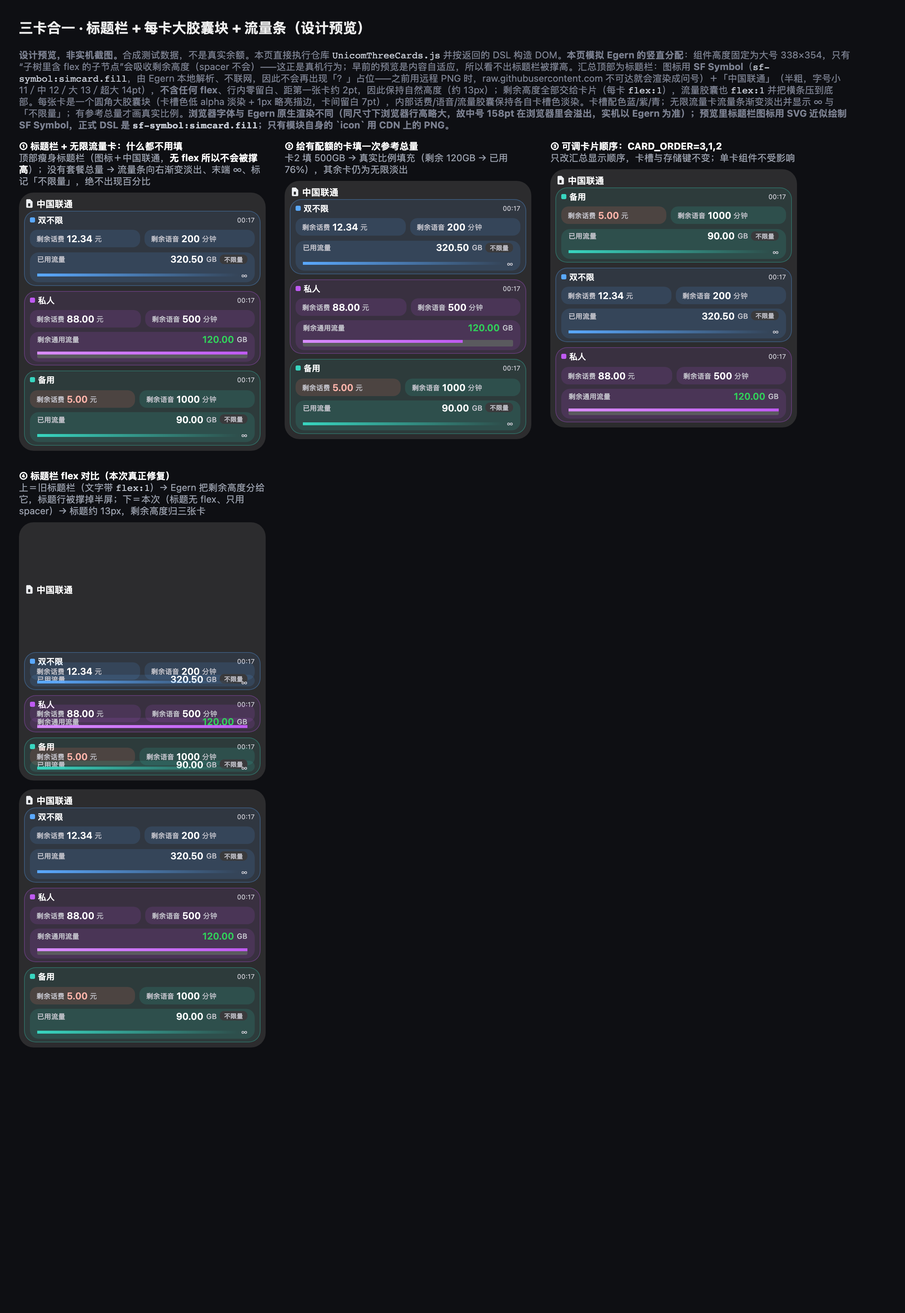
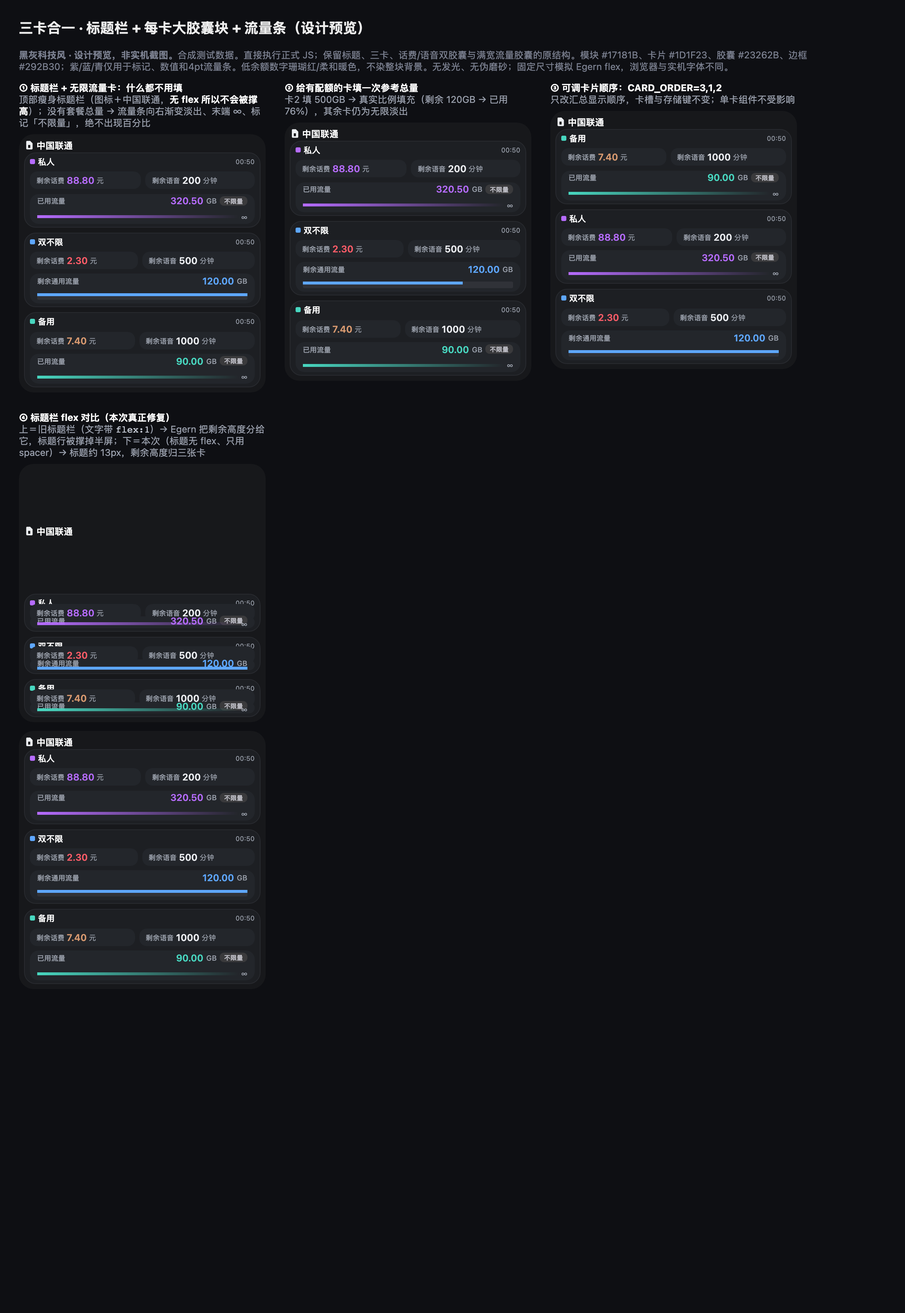
style: neutral dark summary surfaces with restrained slot accents

Changed region(s): [[0.0, 0.0311, 0.9315, 0.4044], [0.0, 0.4356, 0.3105, 0.8089]]

diff --git a/UnicomThreeCards.js b/UnicomThreeCards.js
@@ -127,6 +127,16 @@ const CAPSULE_COLORS=[{light:'#FFF1E5',dark:'#FFB97626'},{light:'#F2EDFF',dark:'
 const SLOT_COLORS=[{light:'#2F7FE0',dark:'#5AA9FF'},{light:'#9B3FD6',dark:'#BF5AF2'},{light:'#12A594',dark:'#38D6C0'}];
 const SLOT_BRIGHT=[{light:'#5AA9FF',dark:'#8CC4FF'},{light:'#BF5AF2',dark:'#D98DFF'},{light:'#38D6C0',dark:'#6FE6D6'}];
 const TINT='21';
+// Summary-only neutral glass palette; single-card styling and account slots stay unchanged.
+const SUMMARY_COLORS=[{light:'#8843C2',dark:'#B66CFF'},{light:'#286CC4',dark:'#5EA7FF'},{light:'#087F70',dark:'#48D7C0'}];
+const SUMMARY_BG={light:'#F3F4F6',dark:'#17181B'};
+const SUMMARY_INK={light:'#202329',dark:'#ECEEF2'};
+const SUMMARY_MUTED={light:'#626975',dark:'#989EA9'};
+const SUMMARY_TRACK={light:'#D9DDE3',dark:'#303238'};
+function summaryFeeColor(d,threshold,slot) {
+ if(!lowBalance(d,threshold)) return SUMMARY_COLORS[slot];
+ return Number(d.value)<threshold/2?{light:'#B83A47',dark:'#FF5C68'}:{light:'#A75E32',dark:'#D99A70'};
+}
 const WARNING={background:{light:'#FDE9E7',dark:'#FF786426'},value:{light:'#B83A32',dark:'#FFB4AA'}};
 const TRACK={light:'#E2E2E7',dark:'#5A5A5E'};
 const CHIP_BG={light:'#ECECF1',dark:'#3A3A3C'};
@@ -169,14 +179,13 @@ function flowRatio(flow,spec) {
  const ratio=used/total;
  return Number.isFinite(ratio)?Math.max(0,Math.min(1,ratio)):null;
 }
-function slotTint(slot) {const c=SLOT_COLORS[slot];return {light:c.light+TINT,dark:c.dark+TINT};}
-function slotFill(slot) {return {type:'linear',colors:[SLOT_BRIGHT[slot],SLOT_COLORS[slot]],startPoint:{x:0,y:0.5},endPoint:{x:1,y:0.5}};}
+function slotTint(slot) {return {light:'#FFFFFF',dark:'#23262B'};}
+function slotFill(slot) {const c=SUMMARY_COLORS[slot];return {type:'linear',colors:[c,c],startPoint:{x:0,y:0.5},endPoint:{x:1,y:0.5}};}
 // Unlimited cards fade to the same colour at 00 alpha so the bar visibly has no end.
-function slotFade(slot) {const c=SLOT_COLORS[slot];return {type:'linear',colors:[c,{light:c.light+'00',dark:c.dark+'00'}],startPoint:{x:0,y:0.5},endPoint:{x:1,y:0.5}};}
-// Big per-card block: a low-alpha slot wash over the widget base (dark ~0x17) plus a brighter 1px
-// outline, so the three cards are visibly separated. Inner capsules keep slotTint.
-function slotCardBg(slot) {const c=SLOT_COLORS[slot];return {light:c.light+'1A',dark:c.dark+'17'};}
-function slotCardBorder(slot) {const c=SLOT_COLORS[slot];return {light:c.light+'59',dark:c.dark+'4D'};}
+function slotFade(slot) {const c=SUMMARY_COLORS[slot];return {type:'linear',colors:[c,{light:c.light+'00',dark:c.dark+'00'}],startPoint:{x:0,y:0.5},endPoint:{x:1,y:0.5}};}
+// Neutral summary surfaces separate cards without broad purple/blue/teal colour washes.
+function slotCardBg(slot) {return {light:'#F8F9FB',dark:'#1D1F23'};}
+function slotCardBorder(slot) {return {light:'#DDE1E7',dark:'#292B30'};}
 // CARD_ORDER only reorders the summary view: a strict 1/2/3 permutation, else the 1,2,3 default.
 function cardOrder(spec) {
  const parts=(typeof spec==='string'||typeof spec==='number')?String(spec).split(',').map(p=>p.trim()):[];
@@ -186,12 +195,12 @@ function cardOrder(spec) {
 }
 // metric.unlimited -> gradient fade + ∞; metric.ratio -> real/relative fill; null -> plain separator.
 function flowBar(slot,metric,s) {
- if(metric.unlimited) return row([{type:'stack',height:BAR_H,flex:1,backgroundGradient:slotFade(slot),children:[]},text('∞',s.tag,COLORS.muted,'medium')],4);
- if(metric.ratio===null) return {type:'stack',direction:'row',height:SEP_H,borderRadius:1,backgroundColor:TRACK,children:[]};
+ if(metric.unlimited) return row([{type:'stack',height:BAR_H,flex:1,backgroundGradient:slotFade(slot),children:[]},text('∞',s.tag,SUMMARY_MUTED,'medium')],4);
+ if(metric.ratio===null) return {type:'stack',direction:'row',height:SEP_H,borderRadius:1,backgroundColor:SUMMARY_TRACK,children:[]};
  const r=Math.round(metric.ratio*1000);
  const fill={type:'stack',height:BAR_H,backgroundGradient:slotFill(slot),flex:r};
  const inner=r>=1000?[fill]:r<=0?[]:[fill,{type:'stack',height:BAR_H,flex:1000-r}];
- return {type:'stack',direction:'row',height:BAR_H,borderRadius:BAR_H/2,backgroundColor:TRACK,children:inner};
+ return {type:'stack',direction:'row',height:BAR_H,borderRadius:BAR_H/2,backgroundColor:SUMMARY_TRACK,children:inner};
 }
 function balanceThreshold(value) {
  if(!['string','number'].includes(typeof value)||!/^\d+(?:\.\d+)?$/.test(String(value).trim())) return 10;
@@ -202,9 +211,9 @@ function capsule(d,index,center=false,warning=false) {
  return {type:'stack',direction:'column',alignItems:'center',...(center?{}:{flex:1}),padding:[7,center?20:8,7,center?20:8],gap:3,backgroundColor:warning?WARNING.background:CAPSULE_COLORS[index],borderRadius:14,children:[text(d.title,10,{light:'#51515A',dark:'#D8D8DF'},'medium'),row([text(d.value,22,warning?WARNING.value:COLORS.value,'semibold'),text(d.unit,10,COLORS.muted)],3)]};
 }
 function chip(label,s) {return {type:'stack',direction:'row',alignItems:'center',padding:[1,6,1,6],borderRadius:6,backgroundColor:CHIP_BG,children:[text(label,s.tag,COLORS.muted,'medium')]};}
-// One resource capsule of the compact summary: slot-coloured ~13% tint, small grey label, big value.
-function miniCapsule(d,slot,s,warning) {
- return {type:'stack',direction:'row',alignItems:'center',flex:1,gap:3,padding:s.cpad,backgroundColor:warning?WARNING.background:slotTint(slot),borderRadius:10,children:[text(d.title,s.label,COLORS.muted,'medium'),text(d.value,s.value,warning?WARNING.value:COLORS.value,'semibold'),text(d.unit,s.unit,COLORS.muted)]};
+// Summary resources use neutral surfaces; hue is confined to status marks and key values.
+function miniCapsule(d,slot,s,valueColor=SUMMARY_INK) {
+ return {type:'stack',direction:'row',alignItems:'center',flex:1,gap:3,padding:s.cpad,backgroundColor:slotTint(slot),borderRadius:10,children:[text(d.title,s.label,SUMMARY_MUTED,'medium'),text(d.value,s.value,valueColor,'semibold'),text(d.unit,s.unit,SUMMARY_MUTED)]};
 }
 function footer(status) {
  return row([spacer(),text(status,9,COLORS.muted)]);
@@ -235,29 +244,27 @@ function compactIdentity(alias,suffix,family,s) {
  if(suffix) parts.push({...text('· 尾号'+suffix,s.name-2,COLORS.value,'medium'),minScale:1});
  return parts;
 }
-// One summary card is wrapped in a single rounded block: a low-alpha slot wash with a brighter 1px
-// outline, so the three cards read as separate blocks. Inside: (1) slot square + alias + suffix +
-// HH:mm, (2) fee/voice capsules, (3) full-width flow capsule (API label + value/unit [+ 不限量]
-// over the flow bar). The inner rows keep their own slot tint.
+// Summary geometry is unchanged: identity/time, two resource capsules, full-width flow capsule.
+// Only surfaces, text accents and warning colours differ from the previous tinted design.
 function compactCard(ctx,result,selection,family,metric) {
  const lock=family.startsWith('accessory'),small=family==='systemSmall';
  const s=FLOW_SIZES[family]||FLOW_SIZES.systemMedium;
  const slot=selection-1;
  const alias=cardName(ctx.env?.['CARD'+selection+'_NAME'],selection);
- const dot={type:'stack',width:s.icon,height:s.icon,borderRadius:2,backgroundColor:SLOT_COLORS[slot],children:[]};
+ const dot={type:'stack',width:s.icon,height:s.icon,borderRadius:2,backgroundColor:SUMMARY_COLORS[slot],children:[]};
  const time=result.updatedAt?new Date(result.updatedAt).toLocaleTimeString('zh-CN',{hour:'2-digit',minute:'2-digit',timeZone:'Asia/Shanghai'}):'--:--';
- const idRow=row([dot,...compactIdentity(alias,lock?'':result.suffix,family,s),spacer(),{...text(time,s.time,COLORS.muted),minScale:1}],4);
+ const idRow=row([dot,...compactIdentity(alias,lock?'':result.suffix,family,s),spacer(),{...text(time,s.time,SUMMARY_MUTED),minScale:1}],4);
  const block=children=>({type:'stack',direction:'column',gap:s.gap,padding:CARD_PAD,flex:1,backgroundColor:slotCardBg(slot),borderRadius:CARD_RADIUS,borderWidth:1,borderColor:slotCardBorder(slot),children});
  if(!result.data) return lock?{type:'stack',direction:'column',gap:2,children:[idRow,text(result.status,9,COLORS.accent)]}:block([idRow,text(result.status,small?9:11,COLORS.accent)]);
  const [fee,voice,flow]=result.data;
- if(lock) return {type:'stack',direction:'column',gap:1,children:[row([dot,...compactIdentity(alias,'',family,s),text(flow.value,s.value,COLORS.value,'semibold'),text(flow.unit,s.unit,COLORS.muted)],3)]};
- const warning=lowBalance(fee,balanceThreshold(ctx.env?.LOW_BALANCE_THRESHOLD));
- const valueColor=flowSemantic(flow.title)==='remaining'?REMAIN:COLORS.value;
- const topRow=row([{...text(flow.title,s.title,COLORS.muted,'medium'),flex:1},text(flow.value,s.value,valueColor,'semibold'),text(flow.unit,s.unit,COLORS.muted,'medium'),...(metric.unlimited?[chip('不限量',s)]:[])],4);
+ if(lock) return {type:'stack',direction:'column',gap:1,children:[row([dot,...compactIdentity(alias,'',family,s),text(flow.value,s.value,COLORS.value,'semibold'),text(flow.unit,s.unit,SUMMARY_MUTED)],3)]};
+ const feeColor=summaryFeeColor(fee,balanceThreshold(ctx.env?.LOW_BALANCE_THRESHOLD),slot);
+ const valueColor=SUMMARY_COLORS[slot];
+ const topRow=row([{...text(flow.title,s.title,SUMMARY_MUTED,'medium'),flex:1},text(flow.value,s.value,valueColor,'semibold'),text(flow.unit,s.unit,SUMMARY_MUTED,'medium'),...(metric.unlimited?[chip('不限量',s)]:[])],4);
  // The flow capsule is flexible and holds a spacer above its bar, so when the card is given extra
  // height the bar sinks to the bottom instead of leaving a dead tinted gap under the label.
  const flowCapsule={type:'stack',direction:'column',gap:s.fgap,padding:s.fpad,flex:1,backgroundColor:slotTint(slot),borderRadius:12,children:[topRow,spacer(),flowBar(slot,metric,s)]};
- const mid=small?[]:[row([miniCapsule(fee,slot,s,warning),miniCapsule(voice,slot,s,false)],6)];
+ const mid=small?[]:[row([miniCapsule(fee,slot,s,feeColor),miniCapsule(voice,slot,s)],6)];
  return block([idRow,...mid,flowCapsule]);
 }
 // Decide each card's bar: unlimited (no total + "已用" label) fades out; a configured total gives a
@@ -314,7 +321,7 @@ async function compactWidget(ctx) {
  // is the one flexible child, so the freed space goes to the three cards (each flex:1) instead of
  // puffing up the heading.
  const children=titleBar.length?[titleBar[0],{type:'stack',direction:'column',gap:CARD_GAP,flex:1,children:cardList}]:cardList;
- return {...widget(children,enabled(ctx.env?.TRANSLUCENT)),padding:lock?4:small?6:family==='systemMedium'?6:family==='systemLarge'?7:8,gap:lock?2:titleBar.length?TITLE_GAP:CARD_GAP};
+ return {...widget(children,enabled(ctx.env?.TRANSLUCENT)),backgroundColor:enabled(ctx.env?.TRANSLUCENT)?{light:'#F3F4F6B3',dark:'#17181BB3'}:SUMMARY_BG,padding:lock?4:small?6:family==='systemMedium'?6:family==='systemLarge'?7:8,gap:lock?2:titleBar.length?TITLE_GAP:CARD_GAP};
 }
 export default async function(ctx) {
  if(ctx.request) {capture(ctx);return;}

diff --git a/preview/compact-preview.html b/preview/compact-preview.html
@@ -1,7 +1,7 @@
 <!doctype html><meta charset="utf-8"><title>三卡汇总 设计预览</title>
 <style>body{font:13px system-ui;background:#0e0f13;color:#eee;padding:26px;margin:0}.wrap{display:flex;gap:26px;flex-wrap:wrap}.box{width:338px}.cap{color:#9aa0ad;margin:0 0 8px}.cap b{color:#fff}.cap code{color:#c7ccd6}.holder{border-radius:20px;overflow:hidden}.note{color:#7b8090;margin-top:18px;max-width:1140px}code{color:#c7ccd6}</style>
 <h2 style="margin:0 0 6px">三卡合一 · 标题栏 + 每卡大胶囊块 + 流量条（设计预览）</h2>
-<p class="note"><b>设计预览，非实机截图。</b>合成测试数据，不是真实余额。本页直接执行仓库 <code>UnicomThreeCards.js</code> 并按返回的 DSL 构造 DOM。<b>本页模拟 Egern 的竖直分配</b>：组件高度固定为大号 338×354，只有“子树里含 flex 的子节点”会吸收剩余高度（spacer 不会）——这正是真机行为；早前的预览是内容自适应，所以看不出标题栏被撑高。汇总顶部为标题栏：图标用 <b>SF Symbol</b>（<code>sf-symbol:simcard.fill</code>，由 Egern 本地解析、不联网，因此不会再出现「？」占位——之前用远程 PNG 时，raw.githubusercontent.com 不可达就会渲染成问号）＋「中国联通」（半粗，字号小 11／中 12／大 13／超大 14pt），<b>不含任何 flex</b>、行内零留白、距第一张卡约 2pt，因此保持自然高度（约 13px）；剩余高度全部交给卡片（每卡 <code>flex:1</code>），流量胶囊也 <code>flex:1</code> 并把横条压到底部。每张卡是一个圆角大胶囊块（卡槽色低 alpha 淡染 + 1px 略亮描边，卡间留白 7pt），内部话费/语音/流量胶囊保持各自卡槽色淡染。卡槽配色蓝/紫/青；无限流量卡流量条渐变淡出并显示 ∞ 与「不限量」；有参考总量才画真实比例。<b>浏览器字体与 Egern 原生渲染不同（同尺寸下浏览器行高略大，故中号 158pt 在浏览器里会溢出，实机以 Egern 为准）；预览里标题栏图标用 SVG 近似绘制 SF Symbol，正式 DSL 是 <code>sf-symbol:simcard.fill</code>；只有模块自身的 `icon` 用 CDN 上的 PNG。</b></p>
+<p class="note"><b>黑灰科技风 · 设计预览，非实机截图。</b>合成测试数据。直接执行正式 JS；保留标题、三卡、话费/语音双胶囊与满宽流量胶囊的原结构。模块 #17181B、卡片 #1D1F23、胶囊 #23262B、边框 #292B30；紫/蓝/青仅用于标记、数值和4pt流量条。低余额数字珊瑚红/柔和暖色，不染整块背景。无发光、无伪磨砂；固定尺寸模拟 Egern flex，浏览器与实机字体不同。</p>
 <div class="wrap">
  <div class="box"><p class="cap"><b>① 标题栏 + 无限流量卡：什么都不用填</b><br>顶部瘦身标题栏（图标＋中国联通，<b>无 flex 所以不会被撑高</b>）；没有套餐总量 → 流量条向右渐变淡出、末端 ∞、标记「不限量」，绝不出现百分比</p><div class="holder" id="a"></div></div>
  <div class="box"><p class="cap"><b>② 给有配额的卡填一次参考总量</b><br>卡2 填 500GB → 真实比例填充（剩余 120GB → 已用 76%），其余卡仍为无限淡出</p><div class="holder" id="b"></div></div>
@@ -44,14 +44,14 @@ function render(n,vertical){
  e.style.minWidth='0';
  return e;
 }
-const rows=[['双不限','剩余话费','12.34','元','剩余语音','200','分钟','已用流量','320.50','GB'],['私人','剩余话费','88.00','元','剩余语音','500','分钟','剩余通用流量','120.00','GB'],['备用','剩余话费','5.00','元','剩余语音','1000','分钟','已用流量','90.00','GB']];
+const rows=[['私人','剩余话费','88.80','元','剩余语音','200','分钟','已用流量','320.50','GB'],['双不限','剩余话费','2.30','元','剩余语音','500','分钟','剩余通用流量','120.00','GB'],['备用','剩余话费','7.40','元','剩余语音','1000','分钟','已用流量','90.00','GB']];
 function fixture(){const m=new Map();rows.forEach((r,i)=>{m.set('egern.unicom3.v1.slot.'+(i+1),{phone:'1300000000'+(i+1),cookie:'synthetic',capturedAt:1,updatedAt:Date.now()-600000,dataSchema:2,data:[{title:r[1],value:r[2],unit:r[3]},{title:r[4],value:r[5],unit:r[6]},{title:r[7],value:r[8],unit:r[9]}]});});return m;}
 function frame(root,family){const f=FRAME[family]||FRAME.systemLarge;root.style.width=f[0]+'px';root.style.height=f[1]+'px';root.style.overflow='hidden';return root;}
 async function draw(id,env,family='systemLarge',mangle){const m=fixture();const t=await run({env:{VIEW:'all',...env},widgetFamily:family,storage:{getJSON:k=>m.get(k),setJSON:(k,v)=>m.set(k,v)},http:{get:()=>{throw Error('fixture cache only')}}});if(mangle)mangle(t);document.getElementById(id).replaceChildren(frame(render(t),family));}
-await draw('a',{CARD1_NAME:'双不限',CARD2_NAME:'私人',CARD3_NAME:'备用'});
-await draw('b',{CARD1_NAME:'双不限',CARD2_NAME:'私人',CARD3_NAME:'备用',CARD2_TOTAL:'500GB'});
-await draw('c',{CARD1_NAME:'双不限',CARD2_NAME:'私人',CARD3_NAME:'备用',CARD_ORDER:'3,1,2'});
+await draw('a',{CARD1_NAME:'私人',CARD2_NAME:'双不限',CARD3_NAME:'备用'});
+await draw('b',{CARD1_NAME:'私人',CARD2_NAME:'双不限',CARD3_NAME:'备用',CARD2_TOTAL:'500GB'});
+await draw('c',{CARD1_NAME:'私人',CARD2_NAME:'双不限',CARD3_NAME:'备用',CARD_ORDER:'3,1,2'});
 // Re-create the OLD bug: put flex back on the title text so the heading takes the leftover height.
-await draw('before',{CARD1_NAME:'双不限',CARD2_NAME:'私人',CARD3_NAME:'备用'},'systemLarge',t=>{const bar=t.children[0];bar.children[1]={...bar.children[1],flex:1};bar.children.pop();});
-await draw('after',{CARD1_NAME:'双不限',CARD2_NAME:'私人',CARD3_NAME:'备用'});
+await draw('before',{CARD1_NAME:'私人',CARD2_NAME:'双不限',CARD3_NAME:'备用'},'systemLarge',t=>{const bar=t.children[0];bar.children[1]={...bar.children[1],flex:1};bar.children.pop();});
+await draw('after',{CARD1_NAME:'私人',CARD2_NAME:'双不限',CARD3_NAME:'备用'});
 </script>

diff --git a/preview/compact.html b/preview/compact.html
@@ -1,6 +1,6 @@
 <!doctype html><meta charset="utf-8"><title>三卡汇总 胶囊块 DSL 设计预览</title>
 <style>body{font:14px system-ui;background:#e7e9ee;padding:24px}#preview{margin-top:20px;box-shadow:0 8px 24px #0002;border-radius:20px;overflow:hidden;box-sizing:border-box}label{margin-right:12px}pre{max-height:220px;overflow:auto}p{max-width:900px}</style>
-<h2>三卡合一 · 标题栏 + 每卡大胶囊块 + 流量条 DSL 设计预览</h2><p><b>设计预览，非实机截图。</b>合成测试数据，不是真实余额。本页直接执行仓库 <code>UnicomThreeCards.js</code> 并按返回的 DSL 构造 DOM；按各档真实尺寸固定高度渲染，并<b>模拟 Egern 的竖直 flex 分配</b>（子树里含 flex 的子节点会吸收剩余高度，spacer 不会），所以能复现真机占高问题。浏览器字体/压缩与 Egern 原生渲染不同。汇总顶部新增一行标题栏：图标用 <b>SF Symbol</b>（<code>sf-symbol:simcard.fill</code>，由 Egern 本地解析、不联网，不会再出现问号占位）＋「中国联通」（半粗，字号小 11／中 12／大 13／超大 14pt），<b>不含任何 flex</b>（标题行一旦含 flex，Egern 就会把剩余高度分给它、把它撑到半屏——这正是真机占高变大的根因）、行内零留白、距第一张卡约 2pt，因此保持自然高度（约 15px），剩余高度交给卡片（每卡 <code>flex:1</code>），可被自定义标题覆盖，<code>SHOW_BRAND=false/off/0</code> 时整行隐藏。每张卡仍是一个圆角大胶囊块（卡槽色低 alpha 淡染 + 1px 略亮描边，卡间留白 7pt），内部话费/语音/流量胶囊保持各自卡槽色淡染；卡片行前的卡槽色小方块保持不变，用来区分三卡。卡槽配色蓝/紫/青；无限流量卡流量条渐变淡出并显示 ∞ 与「不限量」；有参考总量才画真实比例；「卡片顺序」可调整三卡显示次序。<b>预览里标题栏图标用 SVG 近似绘制 SF Symbol，正式 DSL 是 <code>sf-symbol:simcard.fill</code>；只有模块自身的 <code>icon</code> 用 CDN 上的 PNG。</b></p>
+<h2>三卡合一 · 标题栏 + 每卡大胶囊块 + 流量条 DSL 设计预览</h2><p class="note"><b>黑灰科技风 · 设计预览，非实机截图。</b>合成测试数据。直接执行正式 JS；保留标题、三卡、话费/语音双胶囊与满宽流量胶囊的原结构。模块 #17181B、卡片 #1D1F23、胶囊 #23262B、边框 #292B30；紫/蓝/青仅用于标记、数值和4pt流量条。低余额数字珊瑚红/柔和暖色，不染整块背景。无发光、无伪磨砂；固定尺寸模拟 Egern flex，浏览器与实机字体不同。</p>
 <label>尺寸 <select id="family"><option>systemMedium</option><option>systemSmall</option><option>systemLarge</option><option>systemExtraLarge</option><option>accessoryRectangular</option><option>accessoryCircular</option><option>accessoryInline</option></select></label>
 <label><input id="dark" type="checkbox">深色</label><label><input id="titlebar" type="checkbox" checked>顶部标题栏</label><label><input id="suffix" type="checkbox">尾四位</label><label><input id="fail" type="checkbox">卡2失效</label><label>卡1别名 <input id="alias" value="双不限"></label><label>卡2参考总量 <input id="total" placeholder="可选，如 500GB"></label><label>卡片顺序 <input id="order" placeholder="1,2,3"></label>
 <div id="preview"></div><details><summary>实际 JS 返回的 DSL</summary><pre id="tree"></pre></details>

diff --git a/tests/compact.test.js b/tests/compact.test.js
@@ -49,7 +49,7 @@ test('all settings retain exact titles, alias and cache timestamp without rerequ
  const m=mock();for(const p of phones) await capture(m,p);
  await run({...m.ctx,env:{VIEW:'all'}});const records=[1,2,3].map(i=>m.ctx.storage.getJSON('egern.unicom3.v1.slot.'+i));
  const t=await run({...m.ctx,env:{VIEW:'all',TRANSLUCENT:'true',WIDGET_TITLE:'我的三卡',SHOW_BRAND:'true',CARD1_NAME:'双不限',SHOW_PHONE_SUFFIX:'true',LOW_BALANCE_THRESHOLD:'0'}});
- assert.equal(m.calls.length,3);assert.equal(t.backgroundColor.light,'#FFFFFFB3');assert.ok(texts(t).includes('我的三卡'));assert.ok(texts(t).includes('· 尾号0001'));
+ assert.equal(m.calls.length,3);assert.equal(t.backgroundColor.light,'#F3F4F6B3');assert.ok(texts(t).includes('我的三卡'));assert.ok(texts(t).includes('· 尾号0001'));
  assert.deepEqual([1,2,3].map(i=>m.ctx.storage.getJSON('egern.unicom3.v1.slot.'+i)),records);
 });
 test('medium summary is a three-row capsule card inside one rounded slot-tinted block',async()=>{
@@ -63,9 +63,9 @@ test('medium summary is a three-row capsule card inside one rounded slot-tinted 
   assert.equal(card.type,'stack');assert.equal(card.gap,2);assert.equal(card.flex,1); // cards share the height
   // The whole card is one rounded block: slot wash over the base + a brighter 1px outline.
   assert.equal(card.borderRadius,16);assert.equal(card.borderWidth,1);assert.deepEqual(card.padding,[4,7,4,7]);
-  assert.equal(card.backgroundColor.light,['#2F7FE01A','#9B3FD61A','#12A5941A'][i]);
-  assert.equal(card.backgroundColor.dark,['#5AA9FF17','#BF5AF217','#38D6C017'][i]);
-  assert.equal(card.borderColor.light,['#2F7FE059','#9B3FD659','#12A59459'][i]);
+  assert.equal(card.backgroundColor.light,'#F8F9FB');
+  assert.equal(card.backgroundColor.dark,'#1D1F23');
+  assert.equal(card.borderColor.light,'#DDE1E7');
   const [idRow,mid,flowCap]=card.children;
   assert.equal(idRow.type,'stack');assert.equal(mid.type,'stack');assert.equal(flowCap.type,'stack');
   // row1: slot square + identity + right-aligned HH:mm, no big value on this line
@@ -73,12 +73,12 @@ test('medium summary is a three-row capsule card inside one rounded slot-tinted 
   assert.equal(idRow.children.at(-1).type,'text');assert.match(idRow.children.at(-1).text,/^(\d{2}:\d{2}|--:--)$/);
   // row2: two equal capsules side by side, each keeping its own slot tint
   assert.equal(mid.children.length,2);assert.ok(mid.children.every(c=>c.flex===1));
-  assert.equal(mid.children[0].backgroundColor.light,['#2F7FE021','#9B3FD621','#12A59421'][i]);
+  assert.equal(mid.children[0].backgroundColor.light,'#FFFFFF');
   // row3: one full-width flow capsule (label + value over the bar), tinted with this card's slot.
   // It is flexible and holds a spacer above the bar so extra height sinks the bar to the bottom.
   assert.equal(flowCap.children.length,3);
   assert.equal(flowCap.children[1].type,'spacer');
-  assert.equal(flowCap.backgroundColor.light,['#2F7FE021','#9B3FD621','#12A59421'][i]);
+  assert.equal(flowCap.backgroundColor.light,'#FFFFFF');
   assert.equal(flowCap.children[2].children[0].backgroundGradient.type,'linear');
  });
  assert.ok(!texts(t).join('|').includes('%'));

diff --git a/tests/airport.test.js b/tests/airport.test.js
@@ -27,8 +27,8 @@ test('summary slot palette is blue/purple/cyan and no colour is yellow or orange
  const m=await setup(used);
  const t=await run({...m.ctx,env:{VIEW:'all'}});
  const dots=cards(t).map(c=>c.children[0].children[0].backgroundColor);
- assert.deepEqual(dots.map(c=>c.dark),['#5AA9FF','#BF5AF2','#38D6C0']);
- assert.deepEqual(dots.map(c=>c.light),['#2F7FE0','#9B3FD6','#12A594']);
+ assert.deepEqual(dots.map(c=>c.dark),['#B66CFF','#5EA7FF','#48D7C0']);
+ assert.deepEqual(dots.map(c=>c.light),['#8843C2','#286CC4','#087F70']);
  assert.equal(new Set(dots.map(c=>c.dark)).size,3);
  for(const hex of colorStrings(t)){const {h,d}=hsv(hex);if(d>0.12)assert.ok(!(h>=18&&h<=72),'yellow/orange colour '+hex);}
 });
@@ -113,15 +113,17 @@ test('an invalid or missing total never fakes a ratio or a 0% style',async()=>{
   assert.ok(bar.children[0].flex>0);
  }
 });
-test('remaining values render green and used values do not',async()=>{
+test('flow values use their slot accent without changing remaining/used labels',async()=>{
  const m=await setup(remaining);
  const t=await run({...m.ctx,env:{VIEW:'all'}});
  const big=nodes(t).find(n=>n.type==='text'&&n.text==='158.17');
- assert.equal(big.textColor.dark,'#31D05A');
+ assert.equal(big.textColor.dark,'#B66CFF');
+ assert.ok(texts(t).includes('剩余通用流量'));
  const m2=await setup(used);
  const t2=await run({...m2.ctx,env:{VIEW:'all'}});
  const big2=nodes(t2).find(n=>n.type==='text'&&n.text==='407.44');
- assert.notEqual(big2.textColor.dark,'#31D05A');
+ assert.equal(big2.textColor.dark,'#B66CFF');
+ assert.ok(texts(t2).includes('已用通用流量'));
 });
 test('each card shows its flow value exactly once',async()=>{
  const m=await setup(used);
@@ -143,11 +145,11 @@ test('low fee is still emphasised in the summary capsules and normal fee is not'
  const m=mock();for(const p of phones)await capture(m,p);
  m.ctx.http.get=async u=>{m.calls.push({u,o:{}});return {status:200,json:async()=>({code:'Y',feeResource:{feePersent:'2.10',newUnit:'元'},voiceResource:{voicePersent:'56',newUnit:'分钟'},flowResource:used})};};
  const t=await run({...m.ctx,env:{VIEW:'all'}});
- assert.equal(nodes(t).find(n=>n.type==='text'&&n.text==='2.10').textColor.light,'#B83A32');
+ assert.equal(nodes(t).find(n=>n.type==='text'&&n.text==='2.10').textColor.light,'#B83A47');
  const m2=mock();for(const p of phones)await capture(m2,p);
  m2.ctx.http.get=async u=>{m2.calls.push({u,o:{}});return {status:200,json:async()=>({code:'Y',feeResource:{feePersent:'89.30',newUnit:'元'},voiceResource:{voicePersent:'56',newUnit:'分钟'},flowResource:used})};};
  const t2=await run({...m2.ctx,env:{VIEW:'all'}});
- assert.equal(nodes(t2).find(n=>n.type==='text'&&n.text==='89.30').textColor.light,'#1C1C1E');
+ assert.equal(nodes(t2).find(n=>n.type==='text'&&n.text==='89.30').textColor.light,'#8843C2');
 });
 test('summary layout stays within documented DSL and leaks nothing on every home size',async()=>{
  for(const family of ['systemSmall','systemMedium','systemLarge','systemExtraLarge']){

diff --git a/tests/cardblock.test.js b/tests/cardblock.test.js
@@ -6,7 +6,7 @@ import {mock,capture,phones,cards,cardHolder} from './helpers.js';
 const nodes=n=>[n,...(n.children||[]).flatMap(nodes)];
 const texts=n=>[...(n.type==='text'?[n.text]:[]),...(n.children||[]).flatMap(texts)];
 // Slot-tinted card wash (dark) identifies each card after CARD_ORDER rearranges the rows.
-const cardDark=['#5AA9FF17','#BF5AF217','#38D6C017'];
+const cardDark=['#1D1F23','#1D1F23','#1D1F23'];
 
 test('every home summary card is one rounded slot-tinted block with a brighter 1px outline and card gap',async()=>{
  for(const family of ['systemSmall','systemMedium','systemLarge','systemExtraLarge']){
@@ -20,11 +20,11 @@ test('every home summary card is one rounded slot-tinted block with a brighter 1
    assert.equal(card.borderRadius,16,family);
    assert.equal(card.borderWidth,1,family);
    assert.equal(card.backgroundColor.dark,cardDark[i],family);
-   assert.equal(card.backgroundColor.light,['#2F7FE01A','#9B3FD61A','#12A5941A'][i],family);
-   assert.equal(card.borderColor.dark,['#5AA9FF4D','#BF5AF24D','#38D6C04D'][i],family);
+   assert.equal(card.backgroundColor.light,'#F8F9FB',family);
+   assert.equal(card.borderColor.dark,'#292B30',family);
    // the dark wash must stay the specified subtle 0x14..0x1F range, not a solid fill
-   const alpha=parseInt(card.backgroundColor.dark.slice(7),16);
-   assert.ok(alpha>=0x14&&alpha<=0x1f,family+' alpha '+alpha);
+   assert.equal(card.children[0].children[0].backgroundColor.dark,['#B66CFF','#5EA7FF','#48D7C0'][i]);
+   assert.equal(card.backgroundColor.dark.length,7,'neutral opaque card, no slot wash');
    assert.ok(Array.isArray(card.padding),family);
   });
  }
@@ -84,5 +84,5 @@ test('unlimited cards stay ∞ + 不限量 with no percentage and a low fee is s
  assert.equal(texts(t).filter(x=>x==='不限量').length,3);
  assert.equal(texts(t).filter(x=>x==='∞').length,3);
  assert.ok(!texts(t).join('|').includes('%'));
- assert.equal(nodes(t).find(n=>n.type==='text'&&n.text==='2.10').textColor.light,'#B83A32');
+ assert.equal(nodes(t).find(n=>n.type==='text'&&n.text==='2.10').textColor.light,'#B83A47');
 });

diff --git a/tests/dark-neutral.test.js b/tests/dark-neutral.test.js
@@ -1,0 +1,23 @@
+import test from 'node:test';
+import assert from 'node:assert/strict';
+import run from '../UnicomThreeCards.js';
+import {mock,capture,phones,cards} from './helpers.js';
+const nodes=n=>[n,...(n.children||[]).flatMap(nodes)];
+test('neutral summary surfaces, severity-only fee colors and 4pt theme bars preserve data and cache',async()=>{
+ const m=mock();for(const p of phones)await capture(m,p);
+ const fee=['89.30','2.10','7.20'],flow=['158.12','417.75','146.77'];
+ m.ctx.http.get=async u=>{const i=phones.findIndex(p=>u.includes(p));return {status:200,json:async()=>({code:'Y',feeResource:{feePersent:fee[i],newUnit:'元',dynamicFeeTitle:'剩余话费'},voiceResource:{voicePersent:String(789+i),newUnit:'分钟'},flowResource:{flowPersent:flow[i],newUnit:'GB',dynamicFlowTitle:i?'已用通用流量':'剩余通用流量'}})};};
+ const t=await run({...m.ctx,widgetFamily:'systemLarge',env:{VIEW:'all'}});
+ assert.equal(t.backgroundColor.dark,'#17181B');
+ cards(t).forEach((c,i)=>{
+  assert.equal(c.backgroundColor.dark,'#1D1F23');assert.equal(c.borderColor.dark,'#292B30');
+  assert.equal(c.children.length,3);assert.equal(c.children[1].children.length,2);
+  assert.equal(c.children[1].children[0].backgroundColor.dark,'#23262B');
+  const all=nodes(c);assert.equal(all.find(n=>n.text===fee[i]).textColor.dark,['#B66CFF','#FF5C68','#D99A70'][i]);
+  assert.equal(all.filter(n=>n.text===flow[i]).length,1);
+  const bar=c.children[2].children[2];assert.equal(i?bar.children[0].height:bar.height,4);
+ });
+ const saved=structuredClone([1,2,3].map(i=>m.ctx.storage.getJSON('egern.unicom3.v1.slot.'+i)));
+ await run({...m.ctx,widgetFamily:'systemLarge',env:{VIEW:'all',CARD_ORDER:'3,1,2'}});
+ assert.deepEqual([1,2,3].map(i=>m.ctx.storage.getJSON('egern.unicom3.v1.slot.'+i)),saved,'a UI change cannot rewrite cache or credentials');
+});

diff --git a/INSTALL.md b/INSTALL.md
@@ -23,11 +23,13 @@ https://raw.githubusercontent.com/liuweiqiang0523/egern-unicom-threecards/main/U
 
 **顶部标题栏（本次已修复占高根因）**：汇总组件顶部默认显示一行**紧凑**标题栏——左侧为 SF Symbol 图标（`sf-symbol:simcard.fill`，本地解析、不联网，尺寸比文字大一档），右侧为半粗「中国联通」（字号：小 11／中 12／大 13／超大 14pt；上一轮为 10/11/12/13，按实机反馈再调大一档），行内**不再有额外上下留白**，与第一张卡之间只留约 **2pt**，整行保持自然高度（约 15-16px）。**关键修复**：标题栏内部**不得出现任何 `flex`**——Egern 会把“子树含 `flex`”的组件子节点当作可分配剩余高度的子节点；上一版把 `flex:1` 放在标题文字上（同时把三张卡收进内层 holder，使可分配子节点从 4 个变成 2 个），标题行因此被分走近半个组件高度（实机截图实测标题行约 160pt），**改小字号完全无效**。现在标题行只用尾部 `spacer` 实现左对齐、不含 flex，剩余高度交给三张卡（每卡 `flex:1`；卡片内的流量胶囊也 `flex:1` 并用 spacer 把横条压到底部）。可用 `WIDGET_TITLE` 覆盖标题文字（仍做安全校验）。环境变量 `SHOW_BRAND` 显式设为 `false`/`off`/`0` 时，**整行（图标＋文字）一起隐藏**；**留空＝显示**（即默认显示）。不想看到这行标题栏时，把 `SHOW_BRAND` 设为 `false`/`off`/`0` 即可整行隐藏。时间仍显示在每张卡行尾，不在标题栏。**单卡组件不加这行标题栏**（单卡的身份标题仍沿用原内联样式）。
 
-**每张卡是一个大胶囊块**：整卡内容（别名行 + 话费/语音两胶囊 + 流量胶囊）包进一个圆角容器——背景 = 该卡卡槽色低 alpha 淡染叠在组件底色上（深色约 `#RRGGBB17`），`borderRadius` 16，1px 略亮描边，卡与卡之间留白 7pt（本次由 9pt 收紧，给三行让出空间）。这样三张卡在手机上一眼能看出划分；内部小胶囊仍保持各自卡槽色淡染（话费/语音/流量）。
+**每张卡保持一个圆角容器**：仅汇总 UI 更新为黑灰玻璃质感，模块深色 `#17181B`、卡片 `#1D1F23`、内部胶囊 `#23262B`、1px 边框 `#292B30`。不再用大面积卡槽色填充；圆角16、卡间7pt、内边距与 flex 分配保持原样。这里只是颜色层次，不是系统磨砂/模糊材质。
 
-每张卡三行：**①** 卡槽色小方块＋别名（可保留“双不限”）＋按需尾四位，右端原成功 HH:mm；**②** 两个并排胶囊「话费／语音」，胶囊底色 = 该卡槽色约 13% alpha 淡染，标签小字灰色、数值较大加粗，低话费仍用红色警示（阈值不变）；**③** 一个满宽「流量胶囊」（同淡染底）——上行左为接口原义标签（如“已用通用流量／剩余通用流量”）、右为数值与单位，无限量卡在数值后加中性胶囊「**不限量**」；下行是流量条。流量数值只在流量胶囊出现一次。卡槽三色为蓝 #5AA9FF／紫 #BF5AF2／青 #38D6C0（浅色模式用更深的 #2F7FE0／#9B3FD6／#12A594 保证白底对比度），整个汇总版面不含黄／橙。
+每张卡仍为三行：① 强调色标记＋别名＋按需尾四位，右端原成功 HH:mm；② 话费／语音两个并排黑灰胶囊；③ 满宽流量胶囊（接口原义标签＋唯一数值＋单位＋原流量条）。不将三项改成横排，以免改变既有布局。槽位1紫 `#B66CFF`、槽位2蓝 `#5EA7FF`、槽位3青 `#48D7C0`；正常话费及流量数值使用对应强调色，语音近白、说明与单位低对比灰。低话费阈值规则不变，阈值一半以下数字用珊瑚红 `#FF5C68`，其余低余额用柔和暖色 `#D99A70`，底色不警告染色。颜色按原槽位固定，不通过尾号或别名重映射。
 
 **卡片顺序可调**：汇总组件设置里的「卡片显示顺序」`CARD_ORDER`（如 `3,1,2`，默认 `1,2,3`）只改变三张卡在汇总里的显示次序，**不影响卡槽、存储键或单卡组件**。只允许 1/2/3 各出现一次；缺省或非法（如 `1,1,2`、`4`、`3,2`）一律回退默认 `1,2,3`。
+
+**流量条外观**：轨道深灰 `#303238`，高度保持4pt，比例条使用卡槽强调色、不加发光；无限量仍保留原来的淡出＋∞，不伪造套餐总量。
 
 **流量条规则**：无限量卡（接口标签为“已用”语义且未填 `CARDn_TOTAL`）的条没有尽头——用官方 `backgroundGradient` 从卡槽色渐变到同色 `00` 透明、向右淡出，末端在轨道外显示 `∞`，不显示任何百分比；其他卡在**填了 `CARDn_TOTAL`** 时画真实比例（已用/总量，或（总量−剩余）/总量，例：总量 500GB、剩余 158.17GB → 已用 68.4%），**没填**时用该卡数值相对三卡中同口径最大值的**相对长度**——这是相对量、不是套餐百分比。两种都不显示百分比数字，也不会出现假的 0% 样式。单卡失败只影响该行；三卡并行请求，各8秒超时，generic 20秒；仍为1小时新鲜缓存、24小时失败回退。全部原外观控件在 Compact 模块设置页可用。
 
@@ -115,7 +117,7 @@ https://raw.githubusercontent.com/liuweiqiang0523/egern-unicom-threecards/main/U
 
 ### 机场订阅排版参考
 
-汇总现为“每卡一个大胶囊块”版：顶部默认一行标题栏（模块图标＋「中国联通」，可用 `WIDGET_TITLE` 覆盖、`SHOW_BRAND=false/off/0` 隐藏）；每卡先是卡槽色方块＋别名＋尾号＋HH:mm，下面两个卡槽色淡染胶囊「话费／语音」，再一个满宽流量胶囊（接口原义标签＋数值＋条）；整卡内容包在一个卡槽色低 alpha 淡染、1px 略亮描边、`borderRadius` 16 的圆角块里，卡间留白 7pt（本次由 9pt 收紧），便于一眼分辨三卡。**顶部标题栏不含 `flex`、图标离线**：SF Symbol（`sf-symbol:simcard.fill`）＋中国联通（文字小 11／中 12／大 13／超大 14pt、图标再大一档），行内零留白、距首卡约 2pt，保持自然高度（约 16px），剩余高度分给三张卡（每卡 `flex:1`）。**流量条**：无限量卡（“已用”语义且无 `CARDn_TOTAL`）用 `backgroundGradient` 淡出、末端 `∞`、标记「不限量」，没有尽头；**填了 `CARDn_TOTAL`** 才画真实比例（已用/总量，或（总量−剩余）/总量，例：500GB 剩余 158.17GB → 已用 68.4%）；**未填**时按该卡数值相对三卡同口径最大值的**相对长度**——是相对量而非套餐百分比。任何情况都不显示百分比数字、不出现假 0%。不拿 `flowPersent` 字段名当百分比，不通过未知总量做减法。显示次序可用 `CARD_ORDER` 调整（仅汇总，不影响卡槽/存储/单卡）。原单卡保留 A 三色胶囊；汇总不改变资源原义或数值。
+以下为旧版结构说明（布局仍沿用，旧“卡槽色淡染”配色已被上述黑灰中性配色替代）：顶部默认一行标题栏（模块图标＋「中国联通」，可用 `WIDGET_TITLE` 覆盖、`SHOW_BRAND=false/off/0` 隐藏）；每卡先是卡槽色方块＋别名＋尾号＋HH:mm，下面两个卡槽色淡染胶囊「话费／语音」，再一个满宽流量胶囊（接口原义标签＋数值＋条）；整卡内容包在一个卡槽色低 alpha 淡染、1px 略亮描边、`borderRadius` 16 的圆角块里，卡间留白 7pt（本次由 9pt 收紧），便于一眼分辨三卡。**顶部标题栏不含 `flex`、图标离线**：SF Symbol（`sf-symbol:simcard.fill`）＋中国联通（文字小 11／中 12／大 13／超大 14pt、图标再大一档），行内零留白、距首卡约 2pt，保持自然高度（约 16px），剩余高度分给三张卡（每卡 `flex:1`）。**流量条**：无限量卡（“已用”语义且无 `CARDn_TOTAL`）用 `backgroundGradient` 淡出、末端 `∞`、标记「不限量」，没有尽头；**填了 `CARDn_TOTAL`** 才画真实比例（已用/总量，或（总量−剩余）/总量，例：500GB 剩余 158.17GB → 已用 68.4%）；**未填**时按该卡数值相对三卡同口径最大值的**相对长度**——是相对量而非套餐百分比。任何情况都不显示百分比数字、不出现假 0%。不拿 `flowPersent` 字段名当百分比，不通过未知总量做减法。显示次序可用 `CARD_ORDER` 调整（仅汇总，不影响卡槽/存储/单卡）。原单卡保留 A 三色胶囊；汇总不改变资源原义或数值。
 
 ## 首次安装
 
